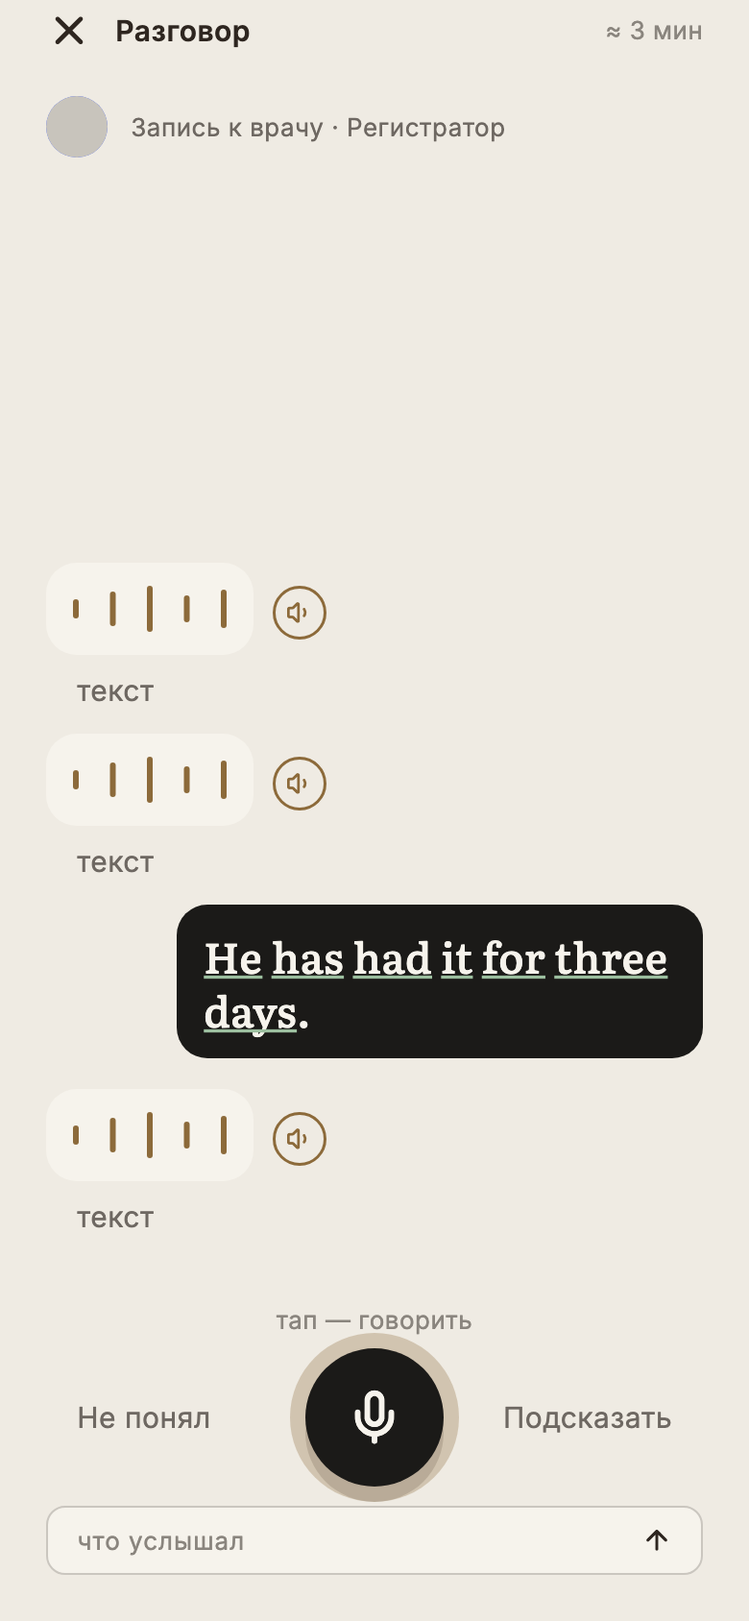
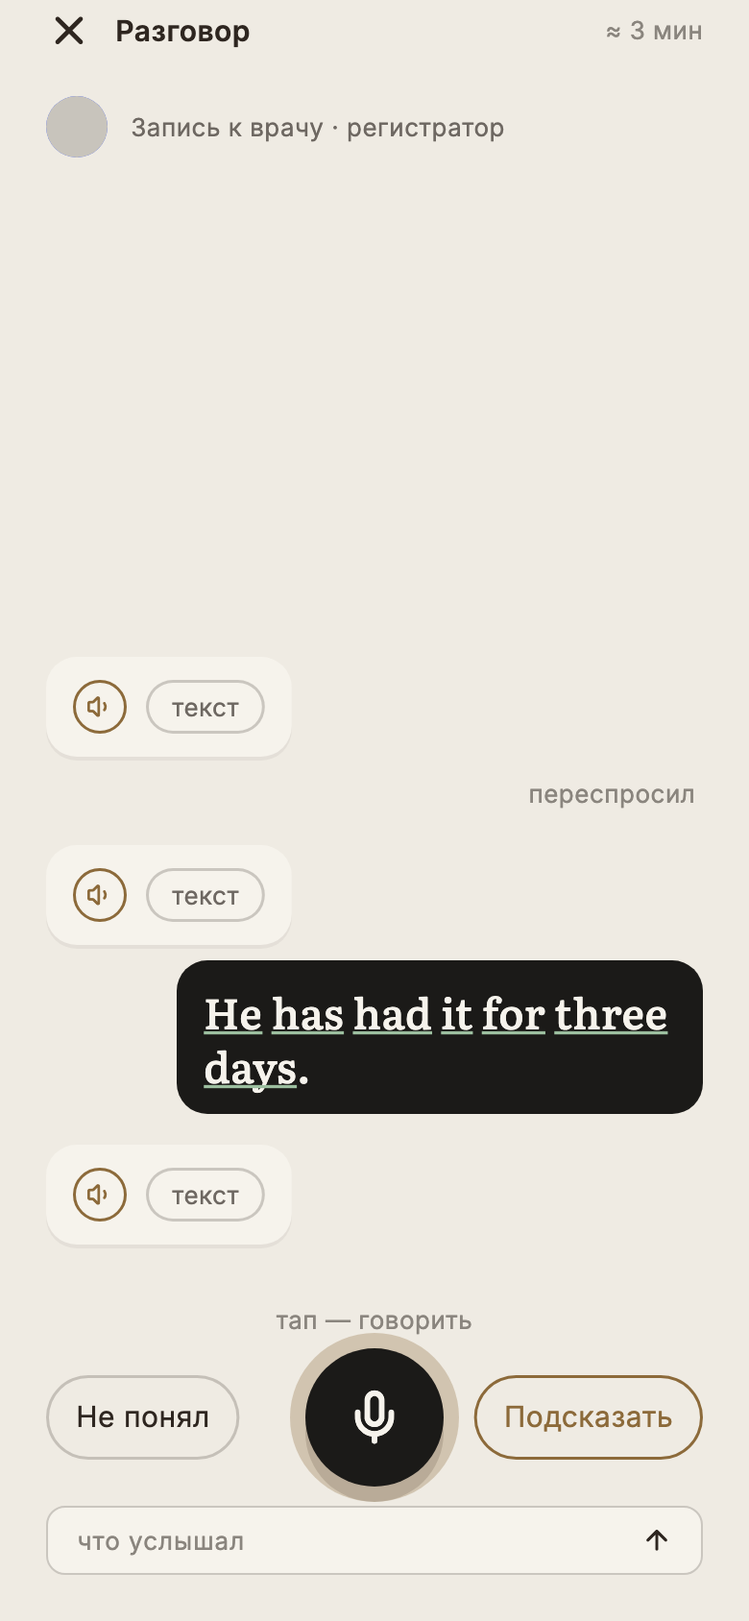
docs(plan): CLIENT-CONV-1a — все 26 снимков по второй правке 21.09, хеш в отчёте
Все 26 снимков перерисованы (44858d2c): реплика роли — контейнер с парой
«прослушать» 28 / «текст» внутри, пока роль говорит — одна волна; «Не
понял» / «Подсказать» и «Пропустить» / «Подсказать» — плашки 44; роль в
полосе со строчной. Шесть (34-5, серия 32) вышли байт в байт прежними.
Живой кадр 26 с симулятора против e2e (повторный вход, без покупки).

Отчёт §1.2, §1.4, §1.7 (обе правки и три замеченных, но не тронутых
расхождения с кадрами), §2, §3, §6, §7; design-map; handoff.

diff --git a/backend2/docs/research/client-conv-1a/README.md b/backend2/docs/research/client-conv-1a/README.md
@@ -8,7 +8,7 @@
 замещает экран целиком; телефону принадлежат ровно три вещи, которых у сервера нет полей: звучит ли
 реплика роли, прервали ли её тапом и пять секунд молчания до чипа подсказки.
 
-Коммиты: `473a9e0f` (код и тесты), `feca5fdd` (отчёт, снимки, карта дизайна, ROADMAP, handoff), `5da280a4` (два дефекта живого прогона), `2e831558` (три находки второго живого прогона), `08e604ab` (правка 21.09: ряд под пузырём, роль со строчной).
+Коммиты: `473a9e0f` (код и тесты), `feca5fdd` (отчёт, снимки, карта дизайна, ROADMAP, handoff), `5da280a4` (два дефекта живого прогона), `2e831558` (три находки второго живого прогона), `08e604ab` (первая правка 21.09: роль со строчной), `44858d2c` (вторая правка 21.09, по кадру: пара внутри пузыря, плашки 44).
 
 ---
 
@@ -43,14 +43,13 @@
   «Поговори с собеседником», «около N минут» из `stages[].minutes_left`, три строки правил,
   «Без подсказок», «Начать разговор» → `POST …/days/{n}/conversation`. Повторный вход — тот же вызов:
   открытая на день одна, сервер возвращает её же.
-- **37-6 агент говорит.** Пузырь роли с волной, текст закрыт; ПОД пузырём — один ряд из двух:
-  «прослушать» 44 и чип «текст» (контур чернил 22 %, 28 в высоту, скругление 14, касание 44). Кружка
-  рядом с пузырём и голого серого слова под ним нет (правка архитектора 21.09, §1.7). Микрофон
-  погашен, подпись «слушай».
+- **37-6 агент говорит.** Реплика роли — светлый контейнер: пока роль говорит, в нём одна волна;
+  договорила — внутри «прослушать» 28 и чип «текст» одним рядом (§1.7). Микрофон погашен, подпись
+  «слушай».
 - **37-9 прерывание.** Тап по микрофону, пока роль говорит: звук стоп, реплика остаётся в ленте с
   пометкой «прервано», микрофон УЖЕ слушает. Серверу об этом не говорят.
 - **37-7 твоя очередь.** Кольцо латунью 1,6 с, «тап — говорить»; «Не понял» слева ВО ВСЕХ состояниях
-  твоей очереди, «Подсказать» справа — до чипа. 5 с молчания (`hints.delay_ms`) или нажатие → чип
+  твоей очереди, «Подсказать» справа — до чипа; обе — контурные плашки 44 (§1.7). 5 с молчания (`hints.delay_ms`) или нажатие → чип
   «Скажи, что <намерение>» (префикс печатает клиент, намерение приходит готовым), кнопка уходит.
   Запись: кольцо шалфеем 1,2 с, живая строка (слова фраз плана — шалфеем), «тишина — конец».
 - **37-8 свой пузырь.** Только распознанный текст, без перевода и без оценки; фразы плана подчёркнуты
@@ -99,7 +98,9 @@
 
 Переписан на компоненте ленты разговора — те же пузыри и тот же микрофон, что 37-6…37-8, с двумя
 названными канвой отличиями: текст реплики собеседника ОТКРЫТ сразу (это тренажёр), и левый выход —
-«Пропустить», а не «Не понял». «Прослушать» 44 — под пузырём собеседника, как в ленте (§1.7).
+«Пропустить», а не «Не понял». Пузырь собеседника — тот же контейнер с одним кружком 28 в углу;
+«Пропустить» и «Подсказать» — контурные плашки 44; после отказа судьи «Пропустить» — латунная ссылка
+над «Ещё раз» (§1.7).
 
 Задание до подсказки на экране не стоит вовсе: свой пузырь появляется, только когда в нём есть что
 показать. 5 с молчания или «Подсказать» → чип с заданием на родном, кнопка уходит. Не зачтено —
@@ -123,19 +124,44 @@
 время реплики роли — это прерывание И начало записи, но это всё ещё тап. Проверено на обоих экранах
 (тесты «микрофон не открывается сам» в разговоре и в 35-2).
 
-### 1.7. Правка архитектора 21.09 — ряд под пузырём и роль со строчной
+### 1.7. Правки архитектора 21.09
 
-- **Пузырь роли** (37-6 и все состояния ленты: звучит, прошла, прервана, открыта; 35-2): под пузырём —
-  ОДИН ряд, «прослушать» 44 и чип «текст». Текст открыт — чип уходит, «прослушать» остаётся один;
-  «Без подсказок» — чипа нет с самого начала; «прервано» стоит между пузырём и рядом (как в 37-9).
-  Кадр 37-6 рисует ту же пару ВНУТРИ плашки и «прослушать» 28 — сделано по правке: 44 и под пузырём.
+**Первая** (`08e604ab`): роль в полосе сцены со строчной — действует; ряд «прослушать» 44 + «текст»
+ПОД пузырём — заменён второй правкой (его живые кадры — `live/24`, `live/25`).
+
 - **Полоса сцены**: роль со строчной — «Приём у врача · врач». Клиент опускает первую букву
   `partner_role_native` (`SessionTexts.roleInline` — то же правило, что у строки-спутника «регистратор
   поймёт»); аббревиатура держит заглавные («ЛОР» не станет «лОР» — буква опускается, только если за
   ней уже строчная; это же правило теперь и у строки-спутника). Заголовки и брови не тронуты: бровь
   «Врач · спрашивает» получает роль как прислал сервер (проверено тестом).
-- Проверено на симуляторе против e2e (повторный вход в открытый разговор — без покупки): кадры
-  `live/24-row-under-bubble.png`, `live/25-row-text-open.png`.
+
+**Вторая — «по кадру, а не по прежней строке»** (`44858d2c`):
+
+- **Реплика роли — светлый контейнер**, и всё, что ей принадлежит, стоит внутри него (37-6…37-9):
+  роль говорит — одна волна (18 столбиков кадра: 3 в ширину, 3 зазор, 24 в высоту); договорила —
+  «прослушать» 28 и чип «текст» одним рядом; прервана — «прервано» над тем же рядом; открыта — слова
+  и кружок 28 в правом верхнем углу, чипа нет. «Без подсказок» — в контейнере один кружок. Геометрия
+  кадра: контейнер 12 + 28 + 12 (с «прервано» — 12 + 18 + 28 + 12), кружок в 12 от верха и в 14 от
+  края. Касание у кружка и у чипа 44: поле контейнера урезано на те 8, что добавляет поле касания, —
+  поэтому контейнер держит размер кадра. Контейнерам ленты (реплика роли, «врач думает») — тень
+  кадра `0 2px 8px`, чернила 6 %.
+- **35-2** — тот же контейнер с одним кружком 28 в углу (текст в тренажёре открыт).
+- **«Не понял» / «Подсказать»** (37-7) и **«Пропустить» / «Подсказать»** (35-2) — контурные плашки 44:
+  контур чернил 22 % и латунь, 15, поле 14. Плашка — по своему слову и не заходит на кольцо микрофона
+  (длинное слово другого языка сжимается внутри неё). После отказа судьи «Пропустить» — латунная
+  ссылка над «Ещё раз», как в «сказал · не зачтено».
+- Проверено на симуляторе против e2e (повторный вход в открытый разговор, без покупки): кадр
+  `live/26-plate-and-pills.png`.
+
+**Замечено при сверке кадров и НЕ тронуто** — вне правки, решение за архитектором:
+
+- 37-7 «слушаю» и 37-9: «тишина — конец» стоит ПОД микрофоном, квадрата «стоп» в кнопке нет (37-9:
+  «Вычтено: … квадрат „стоп"»); у нас подпись над микрофоном и квадрат на записи (снимки 06, 08).
+- 35-2 «сказал · не зачтено»: реплика ученика в тёмном пузыре — бумагой; у нас после отказа — серым
+  (снимок 21).
+- Чип подсказки в кадре — с тенью `0 2px 8px`; у нашего осталась тень листа.
+- На симуляторе в последнем заходе «прослушать» не зазвучал (звук окружения: тест канона
+  подтверждает, что тап доходит до кнопки и играет свою реплику; живой звук — на телефоне, §4.5).
 
 ---
 
@@ -151,7 +177,8 @@
 | «прослушать» у вариантов 32-4 | кадр 32-4 |
 | `sessionStageMark` (второй список «этап → значок») | остался один — `planStageMark` |
 | `PlanRouteStage.fromJson` | заменён `PlanRouteStage.maybe`: чужой этап пропускается |
-| кружок «прослушать» 28 рядом с пузырём роли и серое слово «текст» (`SessionTextExit`) под ним | правка архитектора 21.09: один ряд под пузырём — «прослушать» 44 и чип «текст» (`TalkTextChip`) |
+| кружок «прослушать» 28 рядом с пузырём роли и серое слово «текст» (`SessionTextExit`) под ним; затем ряд «прослушать» 44 + чип под пузырём (первая правка 21.09) | вторая правка 21.09, по кадру: «прослушать» 28 и чип «текст» (`TalkTextChip`) ВНУТРИ контейнера роли (`TalkPartnerBubble`) |
+| «Не понял» / «Подсказать» / «Пропустить» серыми словами (`SessionTextExit`) по бокам микрофона | контурные плашки 44 (`TalkPill`), 37-7 и 35-2 |
 
 Отменено правило SESSION-2b §1 про выбор значения на 32-1 и правило FIX-1 §5 про «по смыслу ✓» в
 повторе — оба сняты кадрами, как они читаются сейчас. Названо здесь, чтобы не возвращалось молча.
@@ -179,7 +206,10 @@
 | сбой — сказанное остаётся в ленте | плашка «связь пропала» над лентой, из которой пропало только что сказанное |
 | переспрос — пометка в ленте, не тёмный пузырь | две одинаковые реплики роли подряд без знака между ними (живой прогон, кадр 08); пустой тёмный пузырь на месте переспроса |
 | микрофон не пишет — сказано, и «Разрешить» спрашивает систему | «тап — говорить» над кнопкой, которая ничего не делает (живой прогон, симулятор без распознавания) |
-| 37-6: «прослушать» 44 и «текст» — одним рядом под пузырём, во всех состояниях ленты | кружок 28 справа от пузыря и серое «текст» отдельной строкой — лента до правки 21.09; в каждом состоянии: звучит, прошлая реплика, прервана («прервано» между пузырём и рядом), открыта (чип ушёл) |
+| 37-6: «прослушать» 28 и «текст» — одним рядом внутри пузыря; пока роль говорит — одна волна | ряд 44 под пузырём (первая правка 21.09) и кружок 28 снаружи с серым «текст» (до правок); в каждом состоянии — геометрия кадра: договорила (12 + 28 + 12), прервана (12 + 18 + 28 + 12), открыта (кружок в углу) |
+| «прослушать» в контейнере играет свою реплику — закрытую и открытую | кнопку, до которой не доходит палец: поле касания 44 обрезано контейнером |
+| 37-7: «Не понял» и «Подсказать» — контурные плашки 44 по бокам микрофона | выходы серыми словами; плашку, заходящую на кольцо микрофона |
+| плашка 44 — по своему слову, а не во всю ширину | плашку, растянутую до кольца микрофона, — первый рендер правки |
 | прощание — лист над лентой, «Итог» ведёт к счёту сервера | итог, посчитанный на телефоне; лист, накрывший ленту целиком |
 | документ без поля — ошибка контракта | разбор, подставляющий ноль вместо пропавшего счёта («0 из 0») |
 | итог репетиции: несказанное не возвращается завтра | возврат, выведенный из `type == rehearsal` вместо поля `returns_tomorrow` |
@@ -221,7 +251,8 @@
 | 35-2: в «Без подсказок» нет ни чипа, ни кнопки | чип по пятисекундному таймеру независимо от режима |
 | 35-2: «Спроси сам» — намерение светлой плашкой | намерение тёмным пузырём, то есть выданное за речь ученика |
 | 35-2: микрофон не открывается сам | карточка, включающая запись по концу реплики собеседника |
-| 35-2: пузырь собеседника — «прослушать» 44 под пузырём, кружка рядом нет | кружок 28 справа от пузыря — 35-2 до правки 21.09 |
+| 35-2: пузырь собеседника — тот же контейнер с одним кружком 28 в углу | ряд 44 под пузырём (первая правка 21.09) и кружок 28 справа от пузыря (до правок) |
+| 35-2: «Пропустить» и «Подсказать» — плашки 44; после отказа «Пропустить» — латунная ссылка | выходы серыми словами; серую ссылку после отказа |
 | свой пузырь — только сказанное: ни перевода, ни отметки оценки | возврат значка оценки — и в проходе, и в повторе, где судьи нет |
 | 32-1: значения — нейтральные плашки | возврат тапаемых чипов, пропавшая подпись, старая кнопка «Понятно» |
 | 32-1: одно значение — строка-суть и «В разговоре» | окно с одной плашкой; блок «В разговоре», нарисованный без реплики дня |
@@ -512,17 +543,12 @@ cd mobile && flutter test test/features/plan/conversation/talk_shots_test.dart -
 
 Без ключа тот же файл — обычный тест: каждый экран рисуется и ничего не переполняет.
 
-Кадры **03, 07, 13, 20 перерисованы** по правке архитектора 21.09 (ряд под пузырём, роль в полосе
-со строчной) — на них видна и пометка «переспросил» живого прогона:
-
-```bash
-cd mobile && flutter test test/features/plan/conversation/talk_shots_test.dart --dart-define=TALK_SHOTS=true --name '^(03|07|13|20) '
-```
-
-Остальные 22 оставлены как есть (решение архитектора): на них пузырь роли ещё со старым кружком
-рядом и серым «текст», полоса — с «Врач» / «Регистратор»; три исправления живого прогона (своя
-реплика в полёте, пометка переспроса, «Нужен микрофон») в них не перерисованы — они видны на живых
-кадрах 13, 16–19 (§4.4).
+**Все 26 перерисованы** по второй правке 21.09 (`44858d2c`): реплика роли — контейнер с парой внутри,
+по бокам микрофона — плашки 44, роль в полосе со строчной, пометка «переспросил» и своя реплика в
+полёте живого прогона. Шесть кадров (18–19, 23–26: 34-5 и серия 32) вышли байт в байт прежними — на
+них нет ни реплики роли, ни дока микрофона, ни полосы. Харнесс слушает «тихую комнату»
+(`ListeningRecognizer`): мгновенную тишину прежнего распознавателя ход читает как мёртвый канал, и
+снимок 08 показал бы плашку «Нужен микрофон», а кадр 37-9 рисует кольцо «слушаю».
 
 ---
 
@@ -536,11 +562,15 @@ cd mobile && flutter test test/features/plan/conversation/talk_shots_test.dart -
 | три находки второго захода (своя реплика в полёте, «переспросил», «Нужен микрофон») | `2e831558` |
 | живые кадры 01–23, стенограммы заходов, отчёт §4–§5, ROADMAP, handoff | `2a22db54`, `dbf40664` |
 | правка архитектора 21.09: «прослушать» 44 и «текст» под пузырём, роль в полосе со строчной | `08e604ab` |
-| снимки 03, 07, 13, 20, живые кадры 24–25, отчёт §1.7 | коммит с этим отчётом |
+| снимки 03, 07, 13, 20, живые кадры 24–25, отчёт §1.7 | `5581931b` |
+| вторая правка 21.09, по кадру: пара внутри контейнера роли, плашки 44 | `44858d2c` |
+| все 26 снимков, живой кадр 26, отчёт §1.7 | коммит с этим отчётом |
 
 Ворота (в конце наряда, после `2e831558`): `flutter analyze` — **чисто**, `flutter test` — **1 605
 passed** (было 1 598 до второго захода; +4 теста живых находок, +3 — чип и минуты). После правки
-21.09 — **1 610 passed** (+5: ряд под пузырём в ленте и в 35-2, три — полоса сцены).
+21.09 — **1 610 passed** (+5: ряд под пузырём в ленте и в 35-2, три — полоса сцены); после второй
+правки — **1 614 passed** (два теста первой правки переписаны по кадру, +4: кнопка в контейнере,
+плашки 44 в ленте и в 35-2, плашка по слову).
 
 **Хук ворот два последних коммита не прогнал** (`2e831558`, `2a22db54`): он читает только ПЕРВОЕ
 `git` в строке, а коммит шёл одной строкой `git add … && git commit …` — хук увидел `add` и

diff --git a/backend2/docs/session-handoff.md b/backend2/docs/session-handoff.md
@@ -9,13 +9,16 @@
 
 Branch: `main`. Last updated: 2026-09-21. Закрыт наряд **CLIENT-CONV-1a** (только `mobile/`):
 **разговор в дне на клиенте** — шесть этапов из ответа сервера, экраны 37-5…37-12, переделка 34-5 и
-35-2 на ленте разговора, серия 32 по канве. Коммиты `473a9e0f`, `feca5fdd`, `5da280a4`, `2e831558`, `08e604ab`.
+35-2 на ленте разговора, серия 32 по канве. Коммиты `473a9e0f`, `feca5fdd`, `5da280a4`, `2e831558`, `08e604ab`, `44858d2c`.
 Отчёт — `docs/research/client-conv-1a/README.md`, 26 снимков состояний — `…/shots/` (оставлены как
 есть, решение архитектора), живые кадры и стенограммы — `…/live/`.
 
-**Правка архитектора 21.09** (после снимков): под пузырём роли — один ряд «прослушать» 44 и чип
-«текст» (37-6, все состояния ленты, 35-2); роль в полосе сцены со строчной («Приём у врача · врач»),
-заголовки не тронуты. Снимки 03, 07, 13, 20 перерисованы; отчёт §1.7.
+**Правки архитектора 21.09** (после снимков): роль в полосе сцены со строчной («Приём у врача ·
+врач», заголовки не тронуты); по кадру 37-6/37-7 — «прослушать» 28 и «текст» ВНУТРИ светлого
+контейнера реплики роли (пока роль говорит — одна волна), «Не понял» / «Подсказать» и в 35-2
+«Пропустить» / «Подсказать» — контурные плашки 44. Все 26 снимков перерисованы; отчёт §1.7 — там же
+три замеченных, но не тронутых расхождения с кадрами (подпись «тишина — конец» и квадрат «стоп»,
+серая реплика после отказа в 35-2, тень чипа).
 
 **Живая проверка пройдена тапами на симуляторе** (iOS 26.5) против `wordtrainer_e2e_test`, два захода
 до итога дня: вход, чип, ход, «врач думает», подчерк фраз, переспрос, **прерывание** реплики роли,
